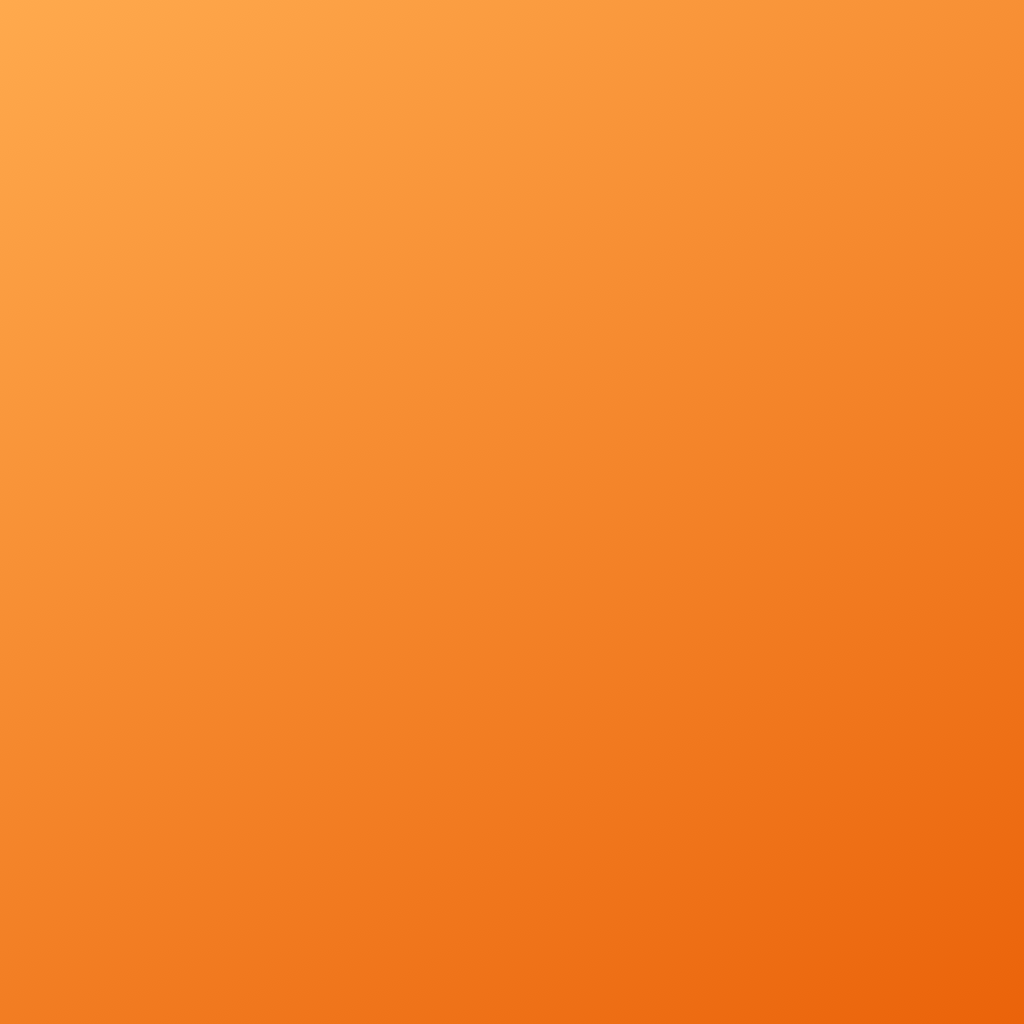
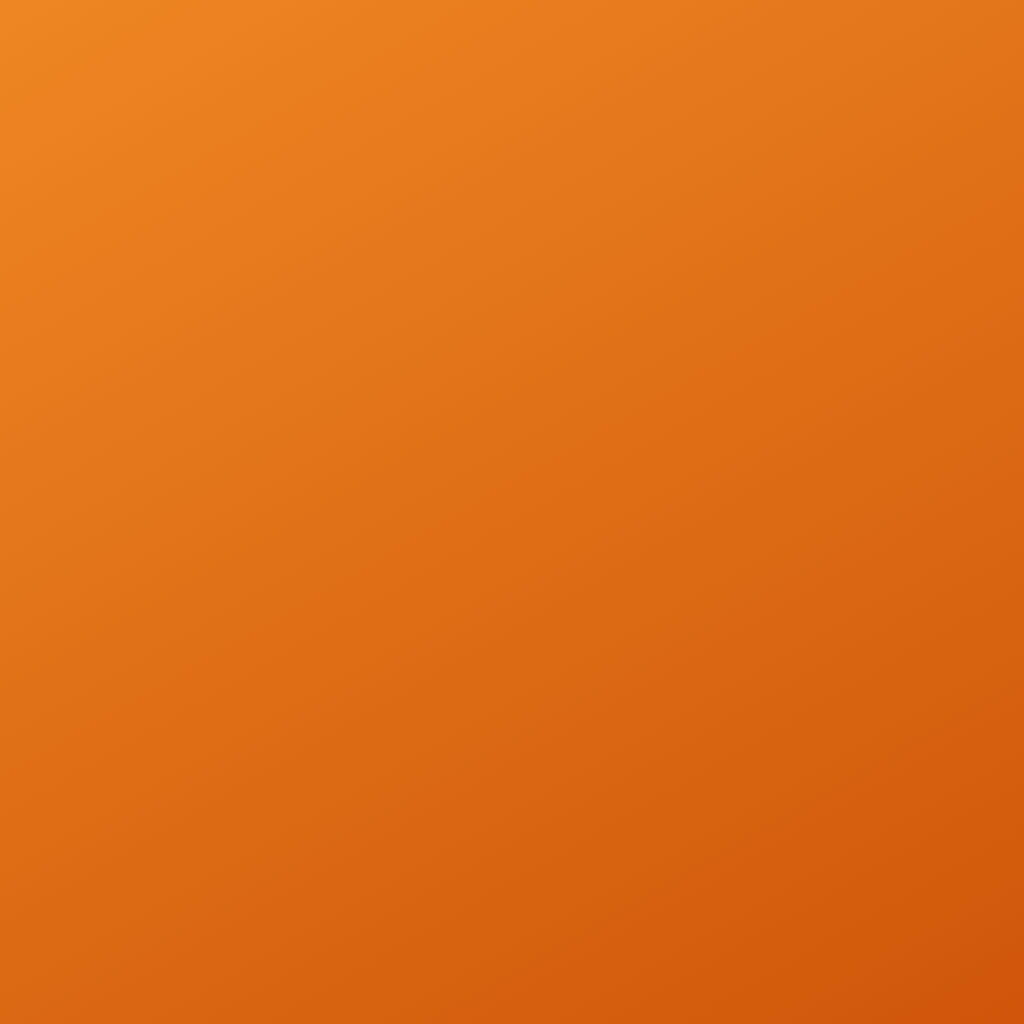
fix(icône): dégradé orange assombri pour un contraste ≥ 3:1 avec l'onde blanche

diff --git a/scripts/make_icons.swift b/scripts/make_icons.swift
@@ -12,8 +12,9 @@ import AppKit
 let outDir = CommandLine.arguments.count > 1 ? CommandLine.arguments[1] : "."
 let size: CGFloat = 1024
 
-let orangeLight = NSColor(calibratedRed: 0.99, green: 0.60, blue: 0.24, alpha: 1) // #FC993D
-let orangeDark = NSColor(calibratedRed: 0.89, green: 0.30, blue: 0.05, alpha: 1)  // #E34D0D
+// Assombri pour que le blanc garde un contraste ≥ 3:1 sur tout le dégradé.
+let orangeLight = NSColor(calibratedRed: 0.91, green: 0.447, blue: 0.11, alpha: 1) // #E8721C
+let orangeDark = NSColor(calibratedRed: 0.761, green: 0.255, blue: 0.047, alpha: 1) // #C2410C
 
 func render(_ name: String, _ draw: () -> Void) {
     let rep = NSBitmapImageRep(bitmapDataPlanes: nil, pixelsWide: Int(size), pixelsHigh: Int(size),

diff --git a/app.config.ts b/app.config.ts
@@ -17,7 +17,7 @@ const config: ExpoConfig = {
     // Permissions de stockage ajoutées par défaut par Expo : inutiles ici.
     blockedPermissions: ['android.permission.READ_EXTERNAL_STORAGE', 'android.permission.WRITE_EXTERNAL_STORAGE'],
     adaptiveIcon: {
-      backgroundColor: '#F97316',
+      backgroundColor: '#D9600F',
       foregroundImage: './assets/images/android-icon-foreground.png',
       backgroundImage: './assets/images/android-icon-background.png',
       monochromeImage: './assets/images/android-icon-monochrome.png',
